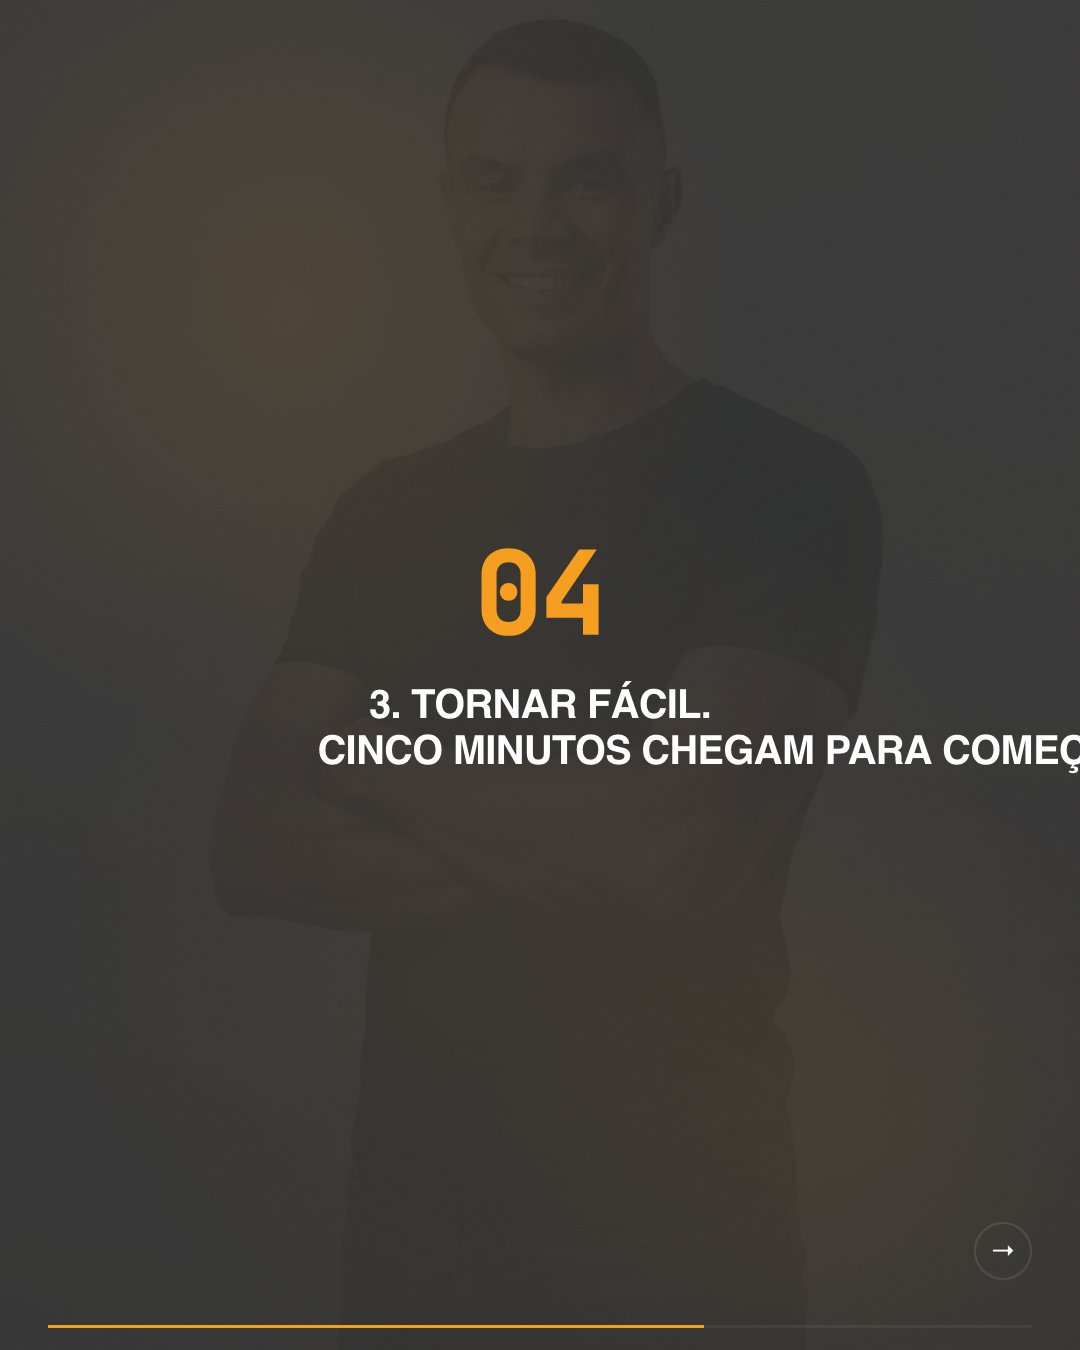
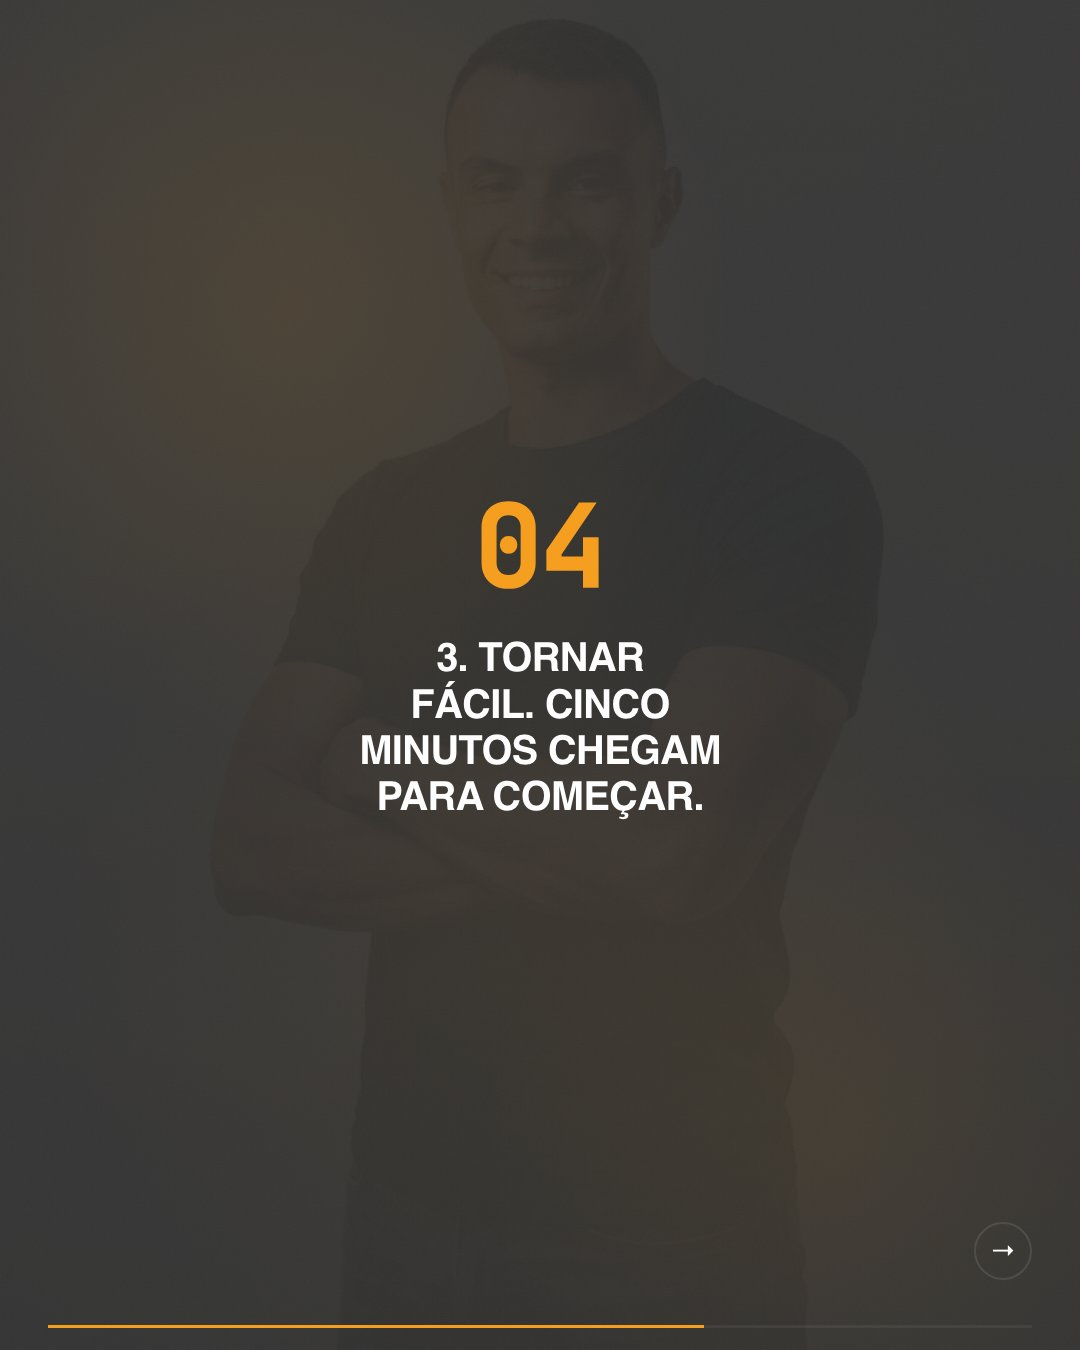
fix(c13): texto cortado — \xa0 removido do h1 + overflow-wrap no HERO V1
C13 h1 tinha \xa0 (non-breaking space) entre todas as palavras, o que
impedia quebras de linha. Com 50px e max-width 28ch, o texto transbordava
e era cortado (mostrava 'TREI' em vez de 'TREINAR').

Fixes:
- Substituído \xa0 por espaços normais no h1 do C13
- Adicionado overflow-wrap: break-word ao HERO V1 (c11, c12, c13)
- Aumentado max-width de 16ch para 28ch no HERO V1

Changed region(s): [[0.275, 0.3733, 1.0, 0.6222]]

diff --git a/public/brands/luiz_santana/output/2026-07/carrosseis/c13-habito-de-treino.html b/public/brands/luiz_santana/output/2026-07/carrosseis/c13-habito-de-treino.html
@@ -87,7 +87,7 @@ body { font-family: var(--font-display); color: var(--text); }
 /* HERO V1: no kicker, big h1 */
 .slide--hero .hero-stack { gap: 0; }
 .slide--hero .kicker { display: none; }
-.slide--hero h1 { font-size: 50px; max-width: 16ch; }
+.slide--hero h1 { font-size: 50px; max-width: 28ch; overflow-wrap: break-word; }
 </style>
 </head>
 <body>
@@ -98,7 +98,7 @@ body { font-family: var(--font-display); color: var(--text); }
   <div class="orb orb-a"></div>
   <div class="hero-stack">
     <div class="kicker">Não é força de vontade. É método.</div>
-    <h1>Quatro passos para o hábito de treinar.</h1>
+    <h1>Quatro passos para o hábito de treinar.</h1>
   </div>
   <div class="arrow-mark">→</div><div class="progress"><span style="width:16.666666666666664%"></span></div>
 </article>
@@ -110,8 +110,8 @@ body { font-family: var(--font-display); color: var(--text); }
   <div class="orb orb-b"></div>
   <div class="content">
     <div class="num">02</div>
-    <h1>1. Tornar óbvio.
-O ambiente decide antes de ti.</h1>
+    <h1>1. Tornar óbvio.
+O ambiente decide antes de ti.</h1>
     
   </div>
   <div class="arrow-mark">→</div><div class="progress"><span style="width:33.33333333333333%"></span></div>
@@ -124,8 +124,8 @@ O ambiente decide antes de ti.</h1>
   <div class="orb orb-b"></div>
   <div class="content">
     <div class="num">03</div>
-    <h1>2. Tornar atractivo.
-Junta prazer ao esforço.</h1>
+    <h1>2. Tornar atractivo.
+Junta prazer ao esforço.</h1>
     
   </div>
   <div class="arrow-mark">→</div><div class="progress"><span style="width:50.0%"></span></div>
@@ -138,8 +138,8 @@ Junta prazer ao esforço.</h1>
   <div class="orb orb-b"></div>
   <div class="content">
     <div class="num">04</div>
-    <h1>3. Tornar fácil.
-Cinco minutos chegam para começar.</h1>
+    <h1>3. Tornar fácil.
+Cinco minutos chegam para começar.</h1>
     
   </div>
   <div class="arrow-mark">→</div><div class="progress"><span style="width:66.66666666666666%"></span></div>
@@ -152,8 +152,8 @@ Cinco minutos chegam para começar.</h1>
   <div class="orb orb-b"></div>
   <div class="content">
     <div class="num">05</div>
-    <h1>1% por dia.
-37x melhor ao fim de um ano.</h1>
+    <h1>1% por dia.
+37x melhor ao fim de um ano.</h1>
     
   </div>
   <div class="arrow-mark">→</div><div class="progress"><span style="width:83.33333333333334%"></span></div>
@@ -166,7 +166,7 @@ Cinco minutos chegam para começar.</h1>
   <div class="orb orb-b"></div>
   <div class="content">
     <div class="num">06</div>
-    <h1>Envia HABITO em mensagem directa.</h1>
+    <h1>Envia HABITO em mensagem directa.</h1>
     
   </div>
   <div class="arrow-mark">→</div><div class="progress"><span style="width:100.0%"></span></div>

diff --git a/public/aprovacao-luiz-202605/js/config.js b/public/aprovacao-luiz-202605/js/config.js
@@ -35,4 +35,4 @@ export const AUTH_ENABLED = false;
 // Versão do app. Comparada periodicamente contra /version.txt no servidor.
 // Se divergir, o badge muda para "🔄 Nova versão" e o user sabe que está
 // numa sessão desactualizada. Bump em cada deploy importante.
-export const APP_VERSION = "20260629-1640";
+export const APP_VERSION = "20260629-1657";

diff --git a/public/aprovacao-tb-202605/js/config.js b/public/aprovacao-tb-202605/js/config.js
@@ -35,4 +35,4 @@ export const AUTH_ENABLED = false;
 // Versão do app. Comparada periodicamente contra /version.txt no servidor.
 // Se divergir, o badge muda para "🔄 Nova versão" e o user sabe que está
 // numa sessão desactualizada. Bump em cada deploy importante.
-export const APP_VERSION = "20260629-1640";
+export const APP_VERSION = "20260629-1657";

diff --git a/public/aprovacao-luiz-202605/sw.js b/public/aprovacao-luiz-202605/sw.js
@@ -12,7 +12,7 @@
 // Resultado: a partir da segunda visita o user nunca mais vê versão
 // antiga, mesmo sem clear cache manual.
 
-const CACHE_NAME = 'pf-aprovacao-fallback-v115';
+const CACHE_NAME = 'pf-aprovacao-fallback-v116';
 
 // Activa imediatamente sem esperar que tabs abertas fechem.
 self.addEventListener('install', (event) => {

diff --git a/public/aprovacao-tb-202605/sw.js b/public/aprovacao-tb-202605/sw.js
@@ -12,7 +12,7 @@
 // Resultado: a partir da segunda visita o user nunca mais vê versão
 // antiga, mesmo sem clear cache manual.
 
-const CACHE_NAME = 'pf-aprovacao-fallback-v110';
+const CACHE_NAME = 'pf-aprovacao-fallback-v111';
 
 // Activa imediatamente sem esperar que tabs abertas fechem.
 self.addEventListener('install', (event) => {

diff --git a/public/aprovacao-luiz-202605/index.html b/public/aprovacao-luiz-202605/index.html
@@ -3,7 +3,7 @@
 <head>
 <meta charset="utf-8" />
 <meta name="viewport" content="20260629-1343" />
-<meta name="app-version" content="20260629-1640" />
+<meta name="app-version" content="20260629-1657" />
 <title>Aprovação · Conteúdo</title>
 
 <script>

diff --git a/public/aprovacao-tb-202605/index.html b/public/aprovacao-tb-202605/index.html
@@ -3,7 +3,7 @@
 <head>
 <meta charset="utf-8" />
 <meta name="viewport" content="20260629-1343" />
-<meta name="app-version" content="20260629-1640" />
+<meta name="app-version" content="20260629-1657" />
 <title>Aprovação · Conteúdo</title>
 
 <script>
